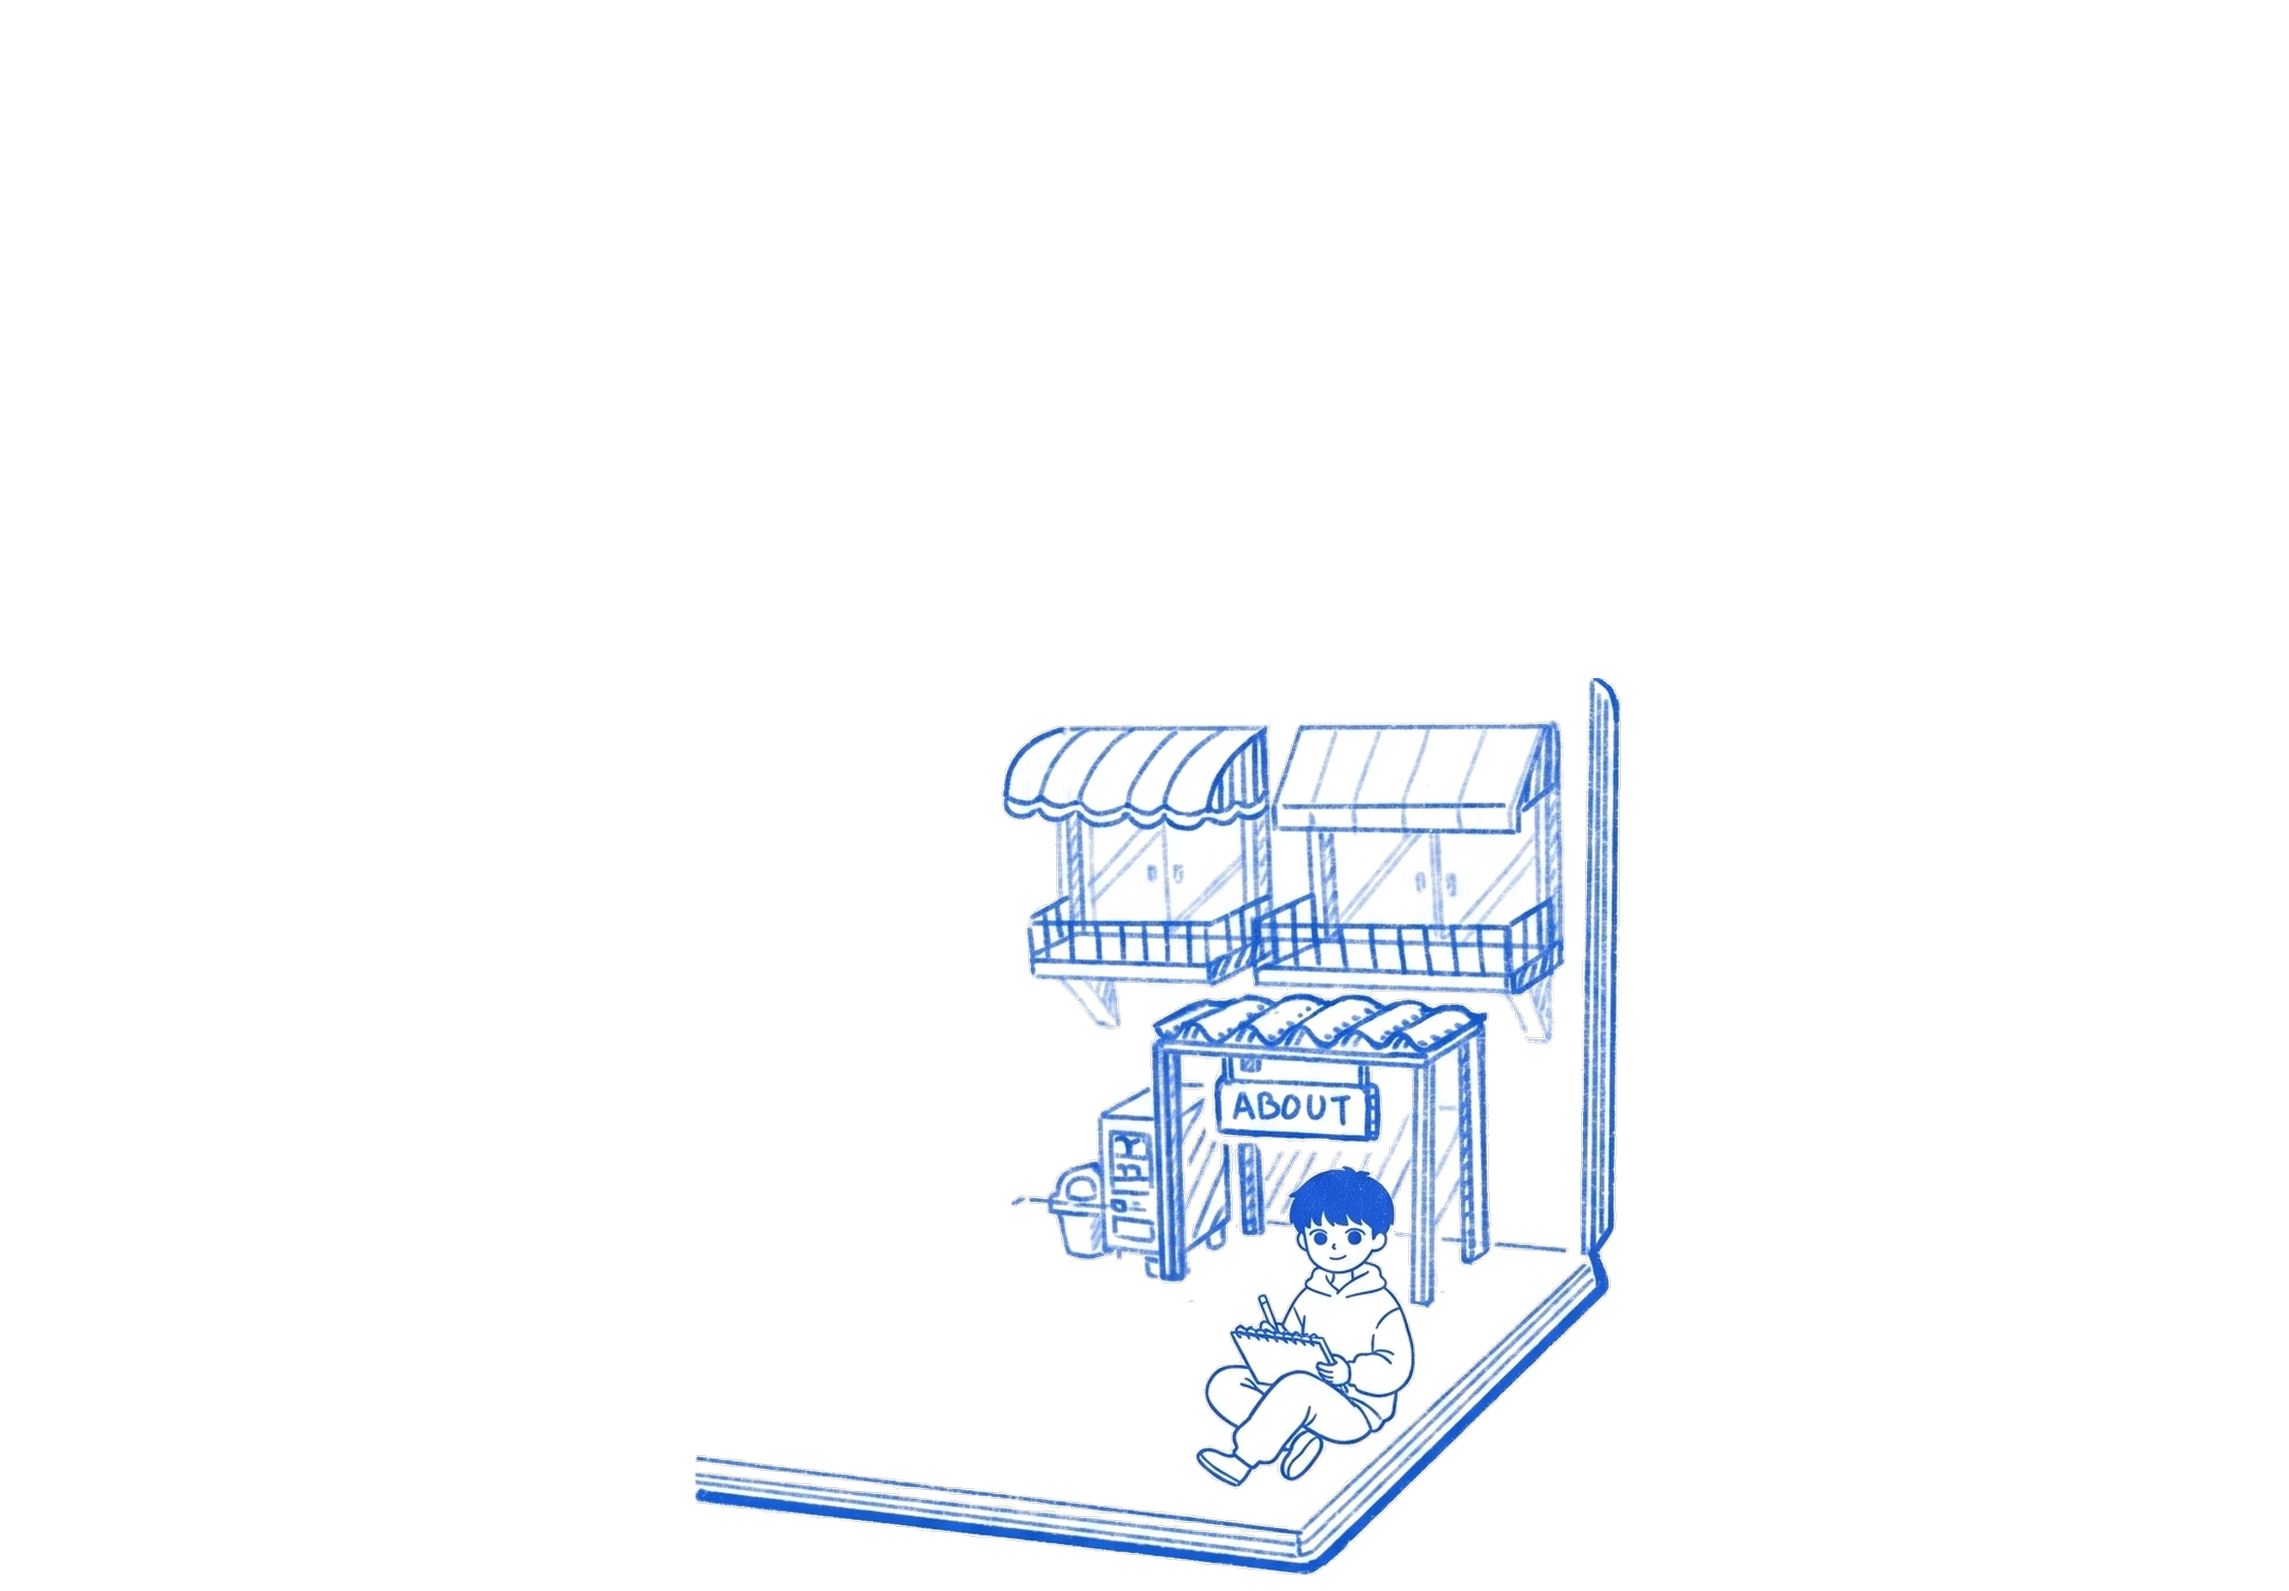
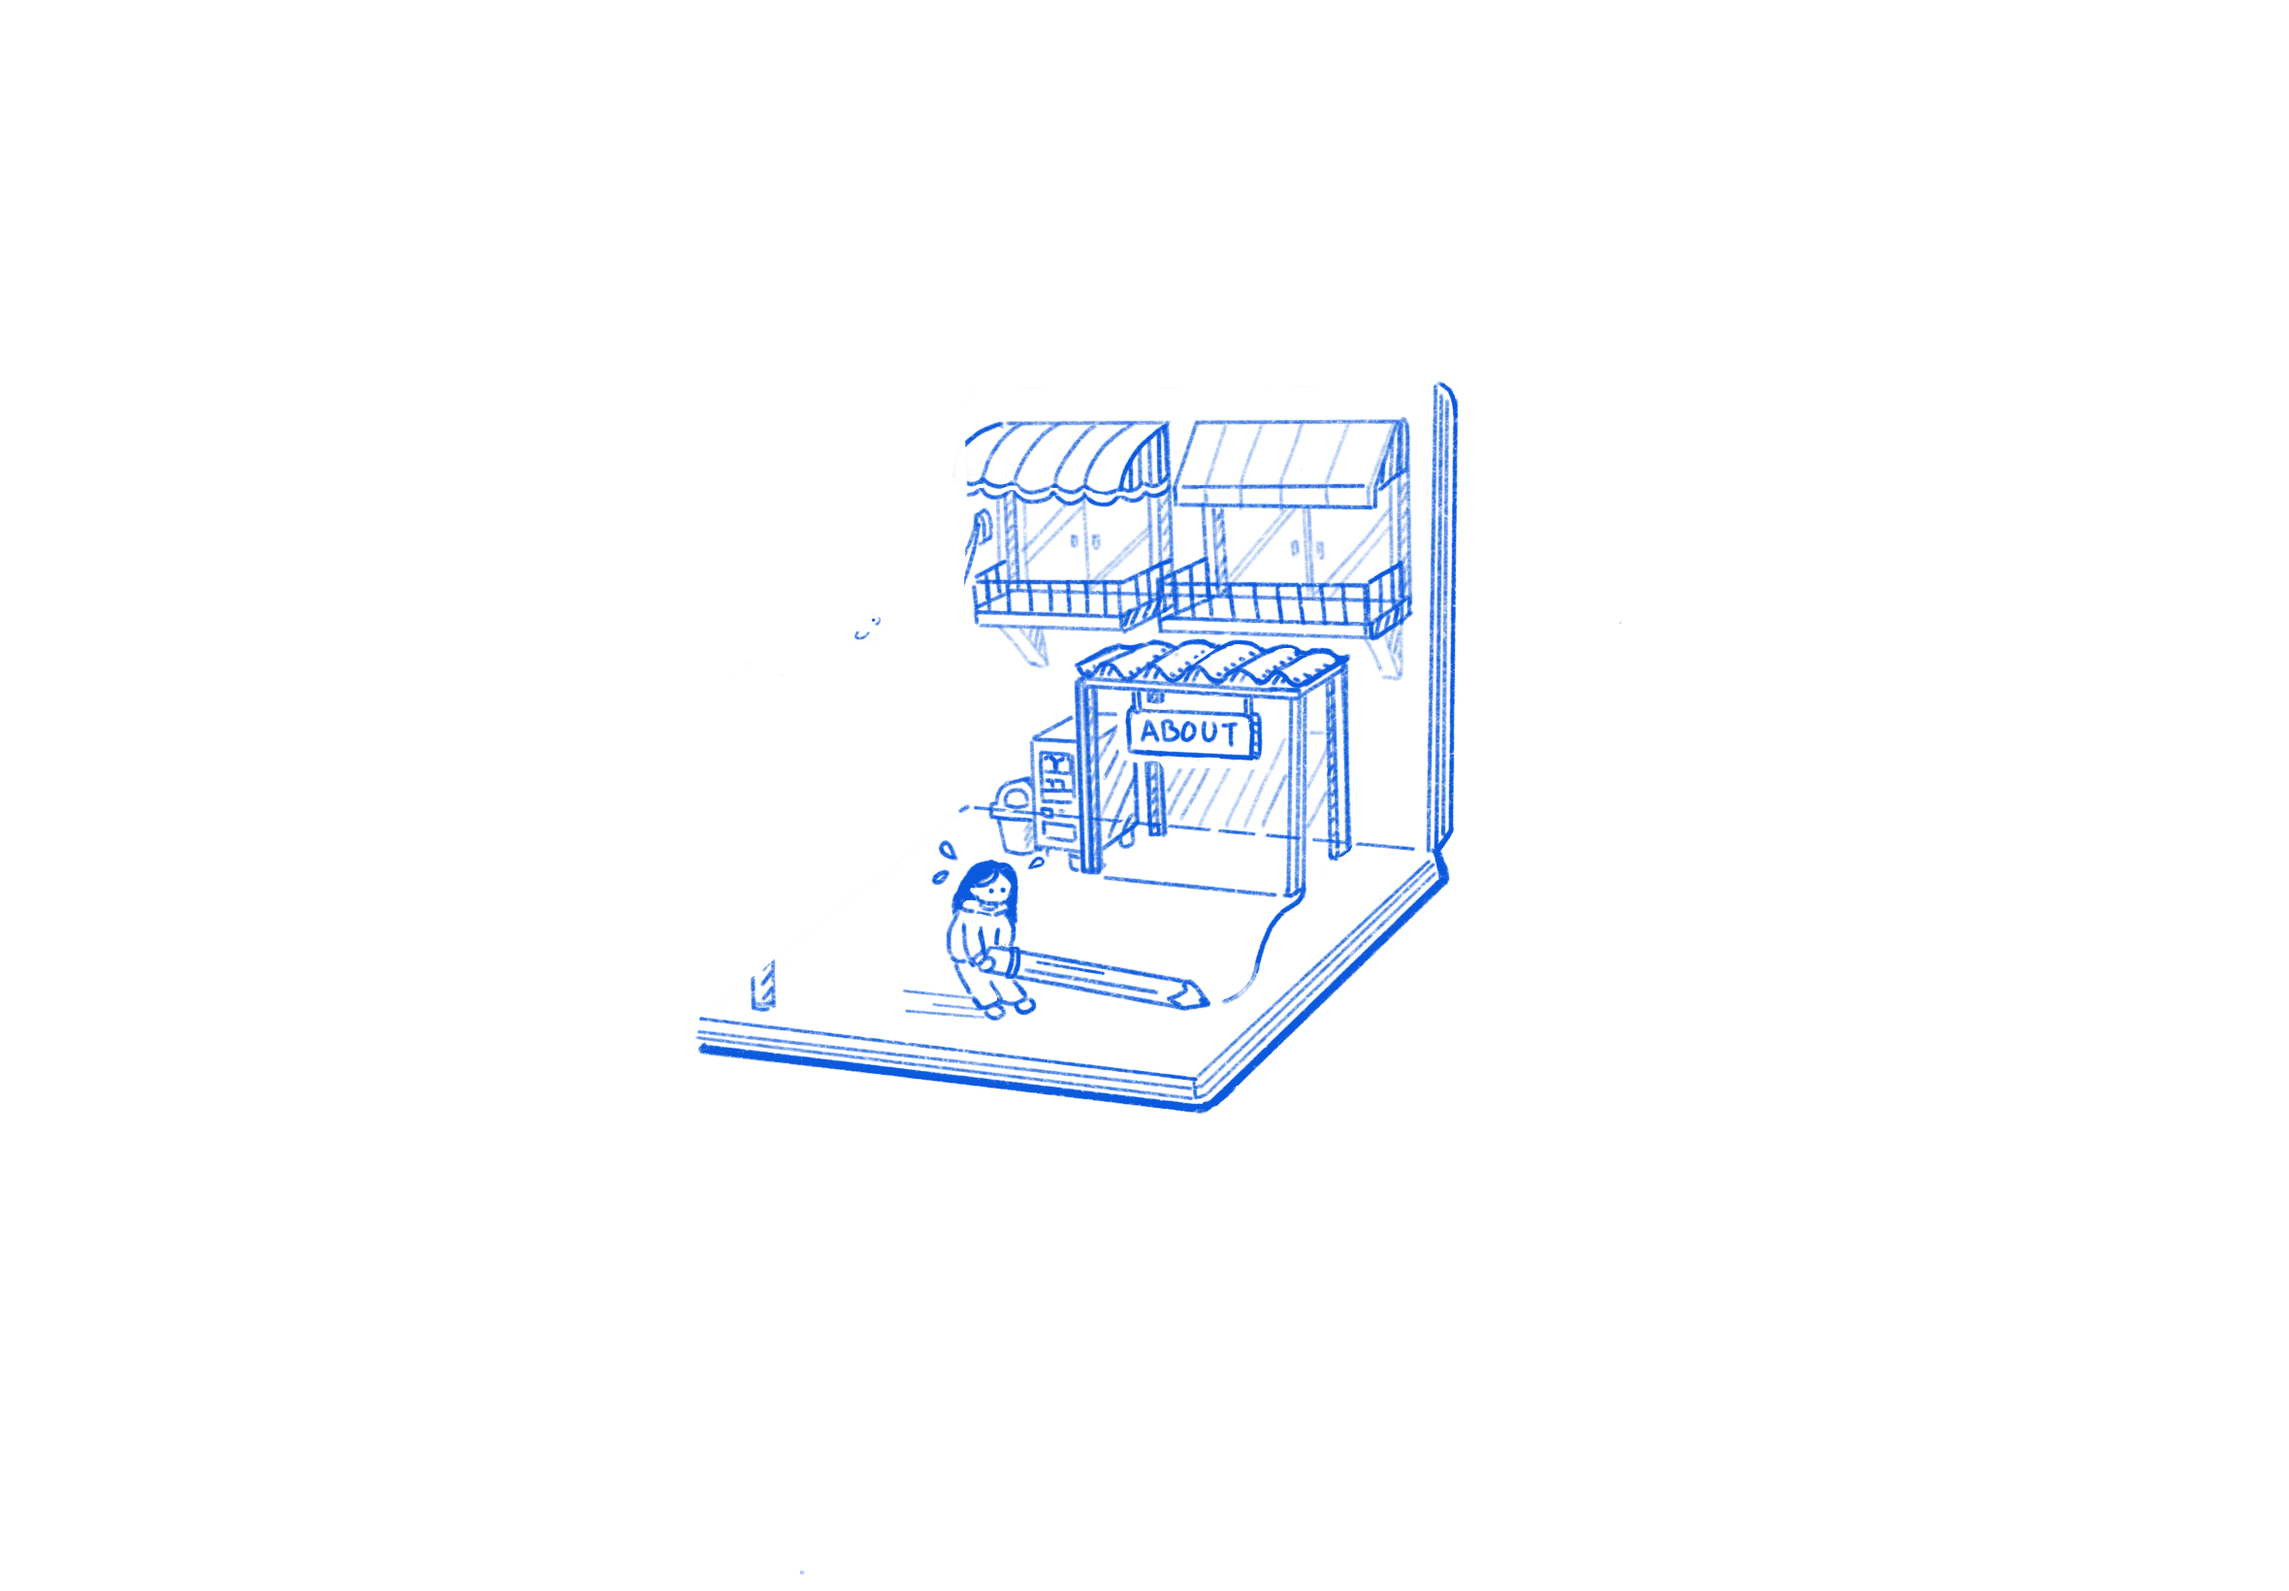
Fix illustrations on about page: restore authentic popup & station assets, set white panel background, and remove polaroids

Changed region(s): [[0.3093, 0.2488, 0.7114, 0.9951]]

diff --git a/about.html b/about.html
@@ -13,6 +13,7 @@
   <meta name="twitter:description" content="I care about design that feels fun.">
   <meta name="twitter:image" content="images/og-image.png">
   <link rel="icon" type="image/png" href="images/favicon.png">
+  <link rel="stylesheet" href="css/layout.css">
   <link rel="preconnect" href="https://fonts.googleapis.com">
   <link href="https://fonts.googleapis.com/css2?family=Noto+Serif+JP:wght@300;400;700&amp;family=Space+Mono:wght@400;700&amp;family=Caveat:wght@400;700&amp;display=swap" rel="stylesheet">
   <style>
@@ -709,6 +710,7 @@
       width: 44%;
       height: 60%;
       border: 2px solid var(--blue);
+      background: #fff;
       overflow: hidden;
       z-index: 2;
     }
@@ -742,12 +744,27 @@
       z-index: 3;
     }
 
-    @media (max-width: 1400px) {
-      .about-sketchbook {
-        display: none;
-      }
+    /* Responsive scaling for laptop screens below 1400px */
+    @media (max-width: 1400px) and (min-width: 1101px) {
       .about-popup {
-        display: none;
+        display: block !important;
+        transform: scale(0.78);
+        transform-origin: top right;
+        right: -80px;
+        top: -60px;
+      }
+      .about-sketchbook {
+        display: block !important;
+        transform: scale(0.78);
+        transform-origin: top right;
+        right: 120px;
+        top: 450px;
+      }
+    }
+
+    @media (max-width: 1100px) {
+      .about-sketchbook, .about-popup {
+        display: none !important;
       }
     }
     #fun-word {
@@ -877,19 +894,6 @@
           <img src="images/about-train-body.png" alt="" class="about-parallax__layer about-parallax__train" id="about-train">
           <img src="images/about-station-front.png" alt="" class="about-parallax__layer about-parallax__front">
         </div>
-      </div>
-      <div class="about-polaroid about-polaroid--1">
-        <img src="images/photo-1.jpg" alt="" class="about-polaroid__img">
-        <div class="about-polaroid__caption">Hi! I'm Sunil</div>
-      </div>
-      <div class="about-polaroid about-polaroid--2">
-        <img src="images/IBM.jpg" alt="" class="about-polaroid__img">
-        <div class="about-polaroid__caption">SHELeads India internship</div>
-      </div>
-
-      <div class="about-polaroid about-polaroid--4">
-        <img src="images/matcha.jpg" alt="" class="about-polaroid__img">
-        <div class="about-polaroid__caption">learning UI/UX @ IIM SKILLS</div>
       </div>
     <main class="main-content">
 
